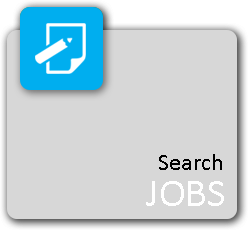
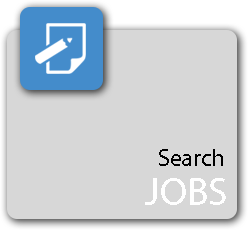
FixedStuff

Changed region(s): [[0.0565, 0.0304, 0.4516, 0.4261], [0.5927, 0.6391, 0.9315, 0.913]]

diff --git a/owner-dashboard.htm b/owner-dashboard.htm
@@ -52,7 +52,7 @@
                     <div class="col-lg-12">
             <div class="panel panel-gray">
                  <div class="panel-heading">
-                     <h3 class="panel-title"><i class="fa fa-long-arrow-right"></i><b>Team Engagement</b> - All Teams</h3>
+                     <h1 class="panel-title"><i class="fa fa-long-arrow-right"></i><b>Team Engagement</b> - All Teams</h1>
                      <hr>
                  </div>
                  <div class="panel-body">

diff --git a/css/custom.css b/css/custom.css
@@ -32,17 +32,17 @@ body {
 }
 
 .panel-gray {
-    border-color: #686868;
+    border-color: #d7d7d7;
 }
 
 .panel-gray > .panel-heading {
-    border-color: ##686868;
-    color: #fff;
-    background-color: #686868;
+    border-color: ##d7d7d7;
+    color: #000;
+    background-color: #d7d7d7;
 }
 
 .panel-gray > a {
-    color: #686868;
+    color: #d7d7d7;
 }
 
 .panel-gray > a:hover {
